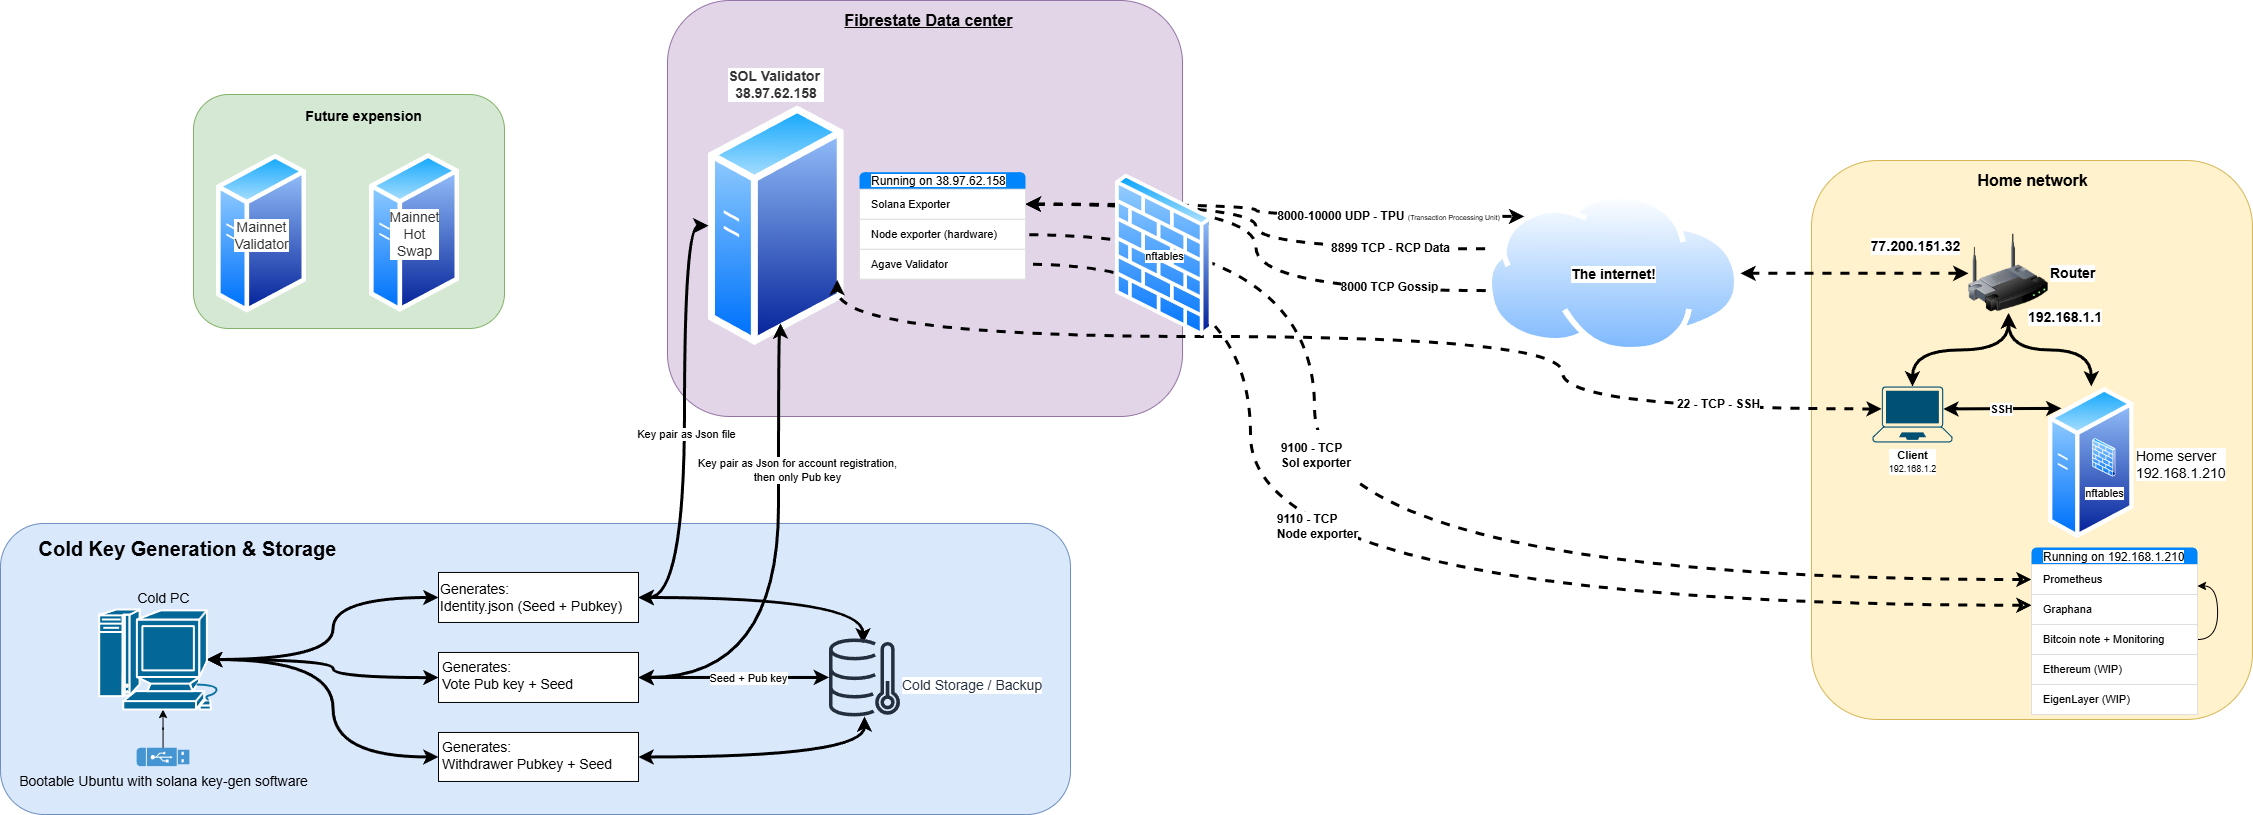
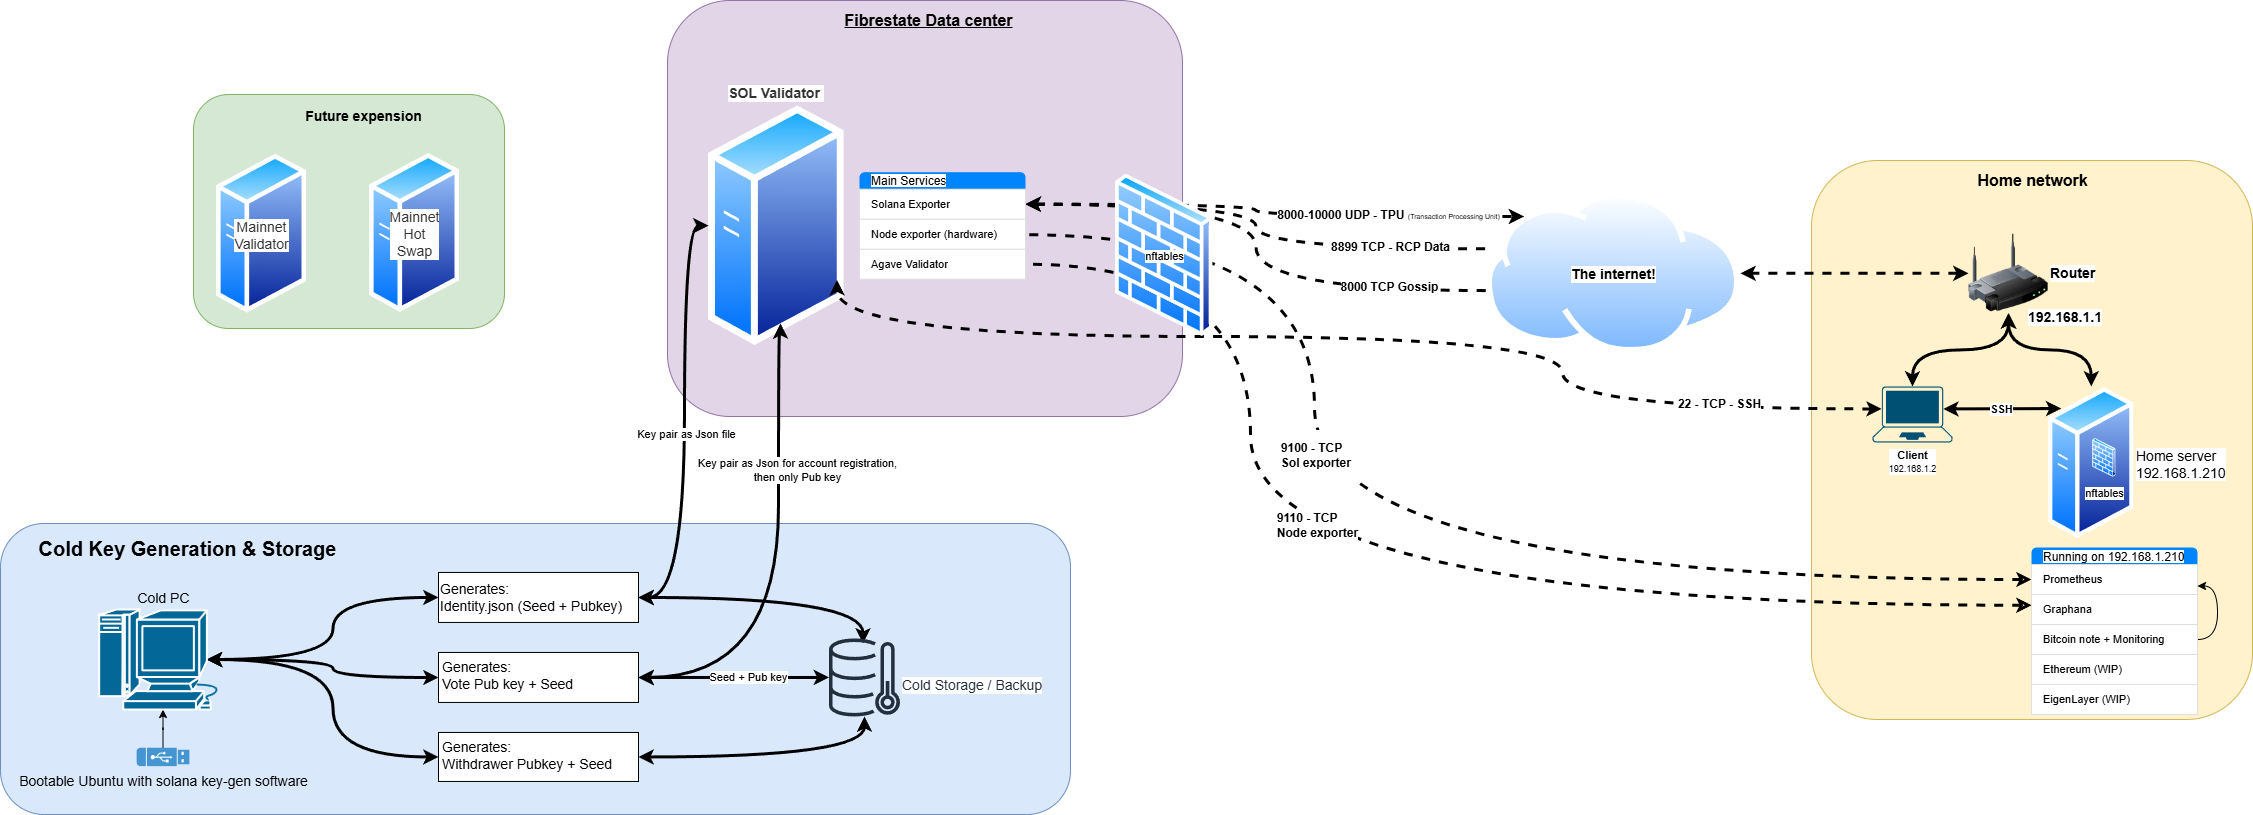
docs: replace home IP address with placeholder for security

diff --git a/infrastructure/home-server/services/nginx.md b/infrastructure/home-server/services/nginx.md
@@ -100,7 +100,7 @@ File: `/etc/nginx/sites-available/grafana`
 ```nginx
 server {
     listen 443 ssl;
-    server_name 77.200.151.32;
+    server_name [home ip];
 
     ssl_certificate     /etc/nginx/ssl/grafana.crt;
     ssl_certificate_key /etc/nginx/ssl/grafana.key;
@@ -180,7 +180,7 @@ The current configuration does not include an explicit HTTP to HTTPS redirection
 # Add this server block to /etc/nginx/sites-available/grafana
 server {
     listen 80;
-    server_name 77.200.151.32;
+    server_name [home ip];
     return 301 https://$server_name$request_uri;
 }
 ```
@@ -205,7 +205,7 @@ sudo openssl req -x509 -nodes -days 365 \
   -newkey rsa:2048 \
   -keyout /etc/nginx/ssl/grafana.key \
   -out /etc/nginx/ssl/grafana.crt \
-  -subj "/CN=77.200.151.32"
+  -subj "/CN=[home ip]"
 ```
 
 ### Let's Encrypt Certificate (Future)
@@ -214,7 +214,7 @@ sudo openssl req -x509 -nodes -days 365 \
 sudo apt install certbot python3-certbot-nginx
 
 # Obtain certificate
-sudo certbot --nginx -d 77.200.151.32
+sudo certbot --nginx -d [home ip]
 
 # Auto-renewal is configured by default
 ```
@@ -306,5 +306,5 @@ sudo systemctl status nginx
 sudo netstat -tulpn | grep nginx
 
 # Test SSL configuration
-curl -vI https://77.200.151.32
+curl -vI https://[home ip]
 ```

diff --git a/infrastructure/solana-validator/setup-tutorials/linux.md b/infrastructure/solana-validator/setup-tutorials/linux.md
@@ -376,9 +376,9 @@ At this point, you have a secure SSH setup with proper user management. The next
        tcp dport 8000 accept        # Gossip TCP
 
        # Restricted Access Services
-       tcp dport 8899 ip saddr { 77.200.151.32 } accept  # RPC
-       tcp dport 9100 ip saddr { 77.200.151.32 } accept  # Solana Exporter
-       tcp dport 9110 ip saddr { 77.200.151.32 } accept  # Node Exporter
+       tcp dport 8899 ip saddr { [home ip] } accept  # RPC
+       tcp dport 9100 ip saddr { [home ip] } accept  # Solana Exporter
+       tcp dport 9110 ip saddr { [home ip] } accept  # Node Exporter
 
        # Management Access
        tcp dport 22 ct state new limit rate 12/minute accept  # SSH
@@ -433,7 +433,7 @@ At this point, you have a secure SSH setup with proper user management. The next
    - Default policy: DROP
    - Established connections: ACCEPT
    - Loopback traffic: ACCEPT
-   - Home IP (77.200.151.32) allowed for:
+   - Home IP ([home ip]) allowed for:
      - RPC access
      - Metrics collection
      - Monitoring

diff --git a/infrastructure/solana-validator/linux-config/firewall.md b/infrastructure/solana-validator/linux-config/firewall.md
@@ -64,9 +64,9 @@ table inet filter {
     tcp dport 8000 accept        # Gossip TCP
 
     # Restricted Access Services
-    tcp dport 8899 ip saddr { 77.200.151.32 } accept  # RPC
-    tcp dport 9100 ip saddr { 77.200.151.32 } accept  # Solana Exporter
-    tcp dport 9110 ip saddr { 77.200.151.32 } accept  # Node Exporter
+    tcp dport 8899 ip saddr { [home ip] } accept  # RPC
+    tcp dport 9100 ip saddr { [home ip] } accept  # Solana Exporter
+    tcp dport 9110 ip saddr { [home ip] } accept  # Node Exporter
 
     # Management Access
     tcp dport 22 ct state new limit rate 12/minute accept  # SSH
@@ -109,7 +109,7 @@ table inet filter {
 - Default policy: DROP
 - Established connections: ACCEPT
 - Loopback traffic: ACCEPT
-- Home IP (77.200.151.32) allowed for:
+- Home IP ([home ip]) allowed for:
   - RPC access
   - Metrics collection
   - Monitoring

diff --git a/infrastructure/home-router/README.md b/infrastructure/home-router/README.md
@@ -1,7 +1,7 @@
 # Home Router Configuration
 
 ## Network Information
-- External IP: 77.200.151.32
+- External IP: [home ip]
 - Internal IP: 192.168.1.1
 - Provider: SFR
 - Network Performance:
